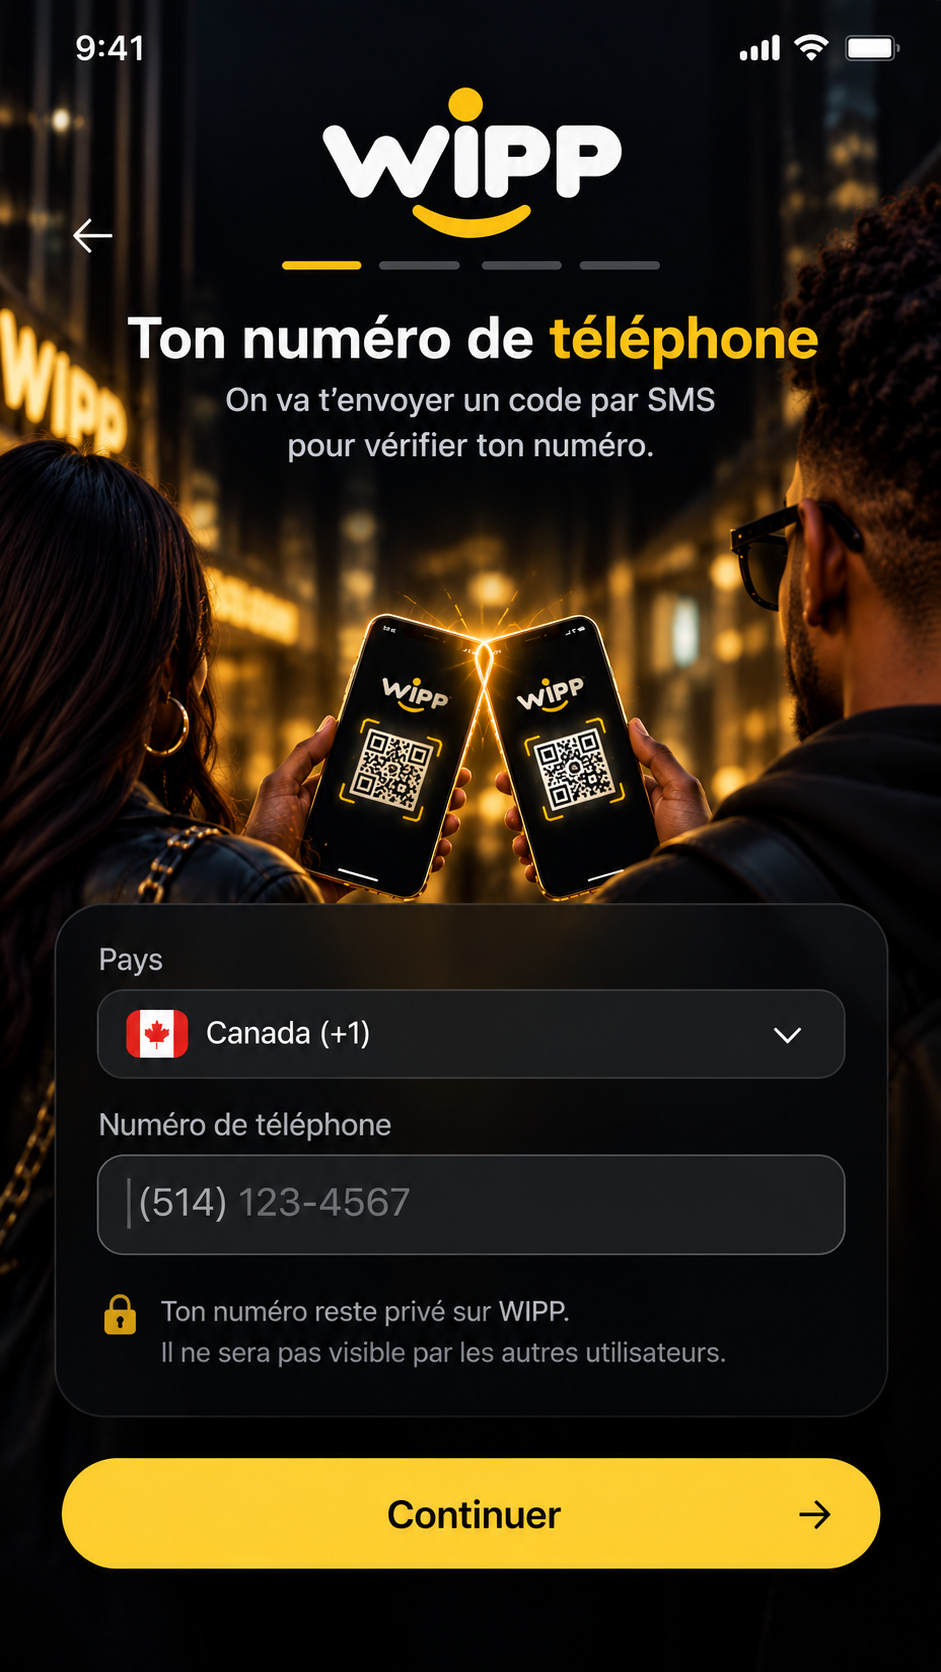
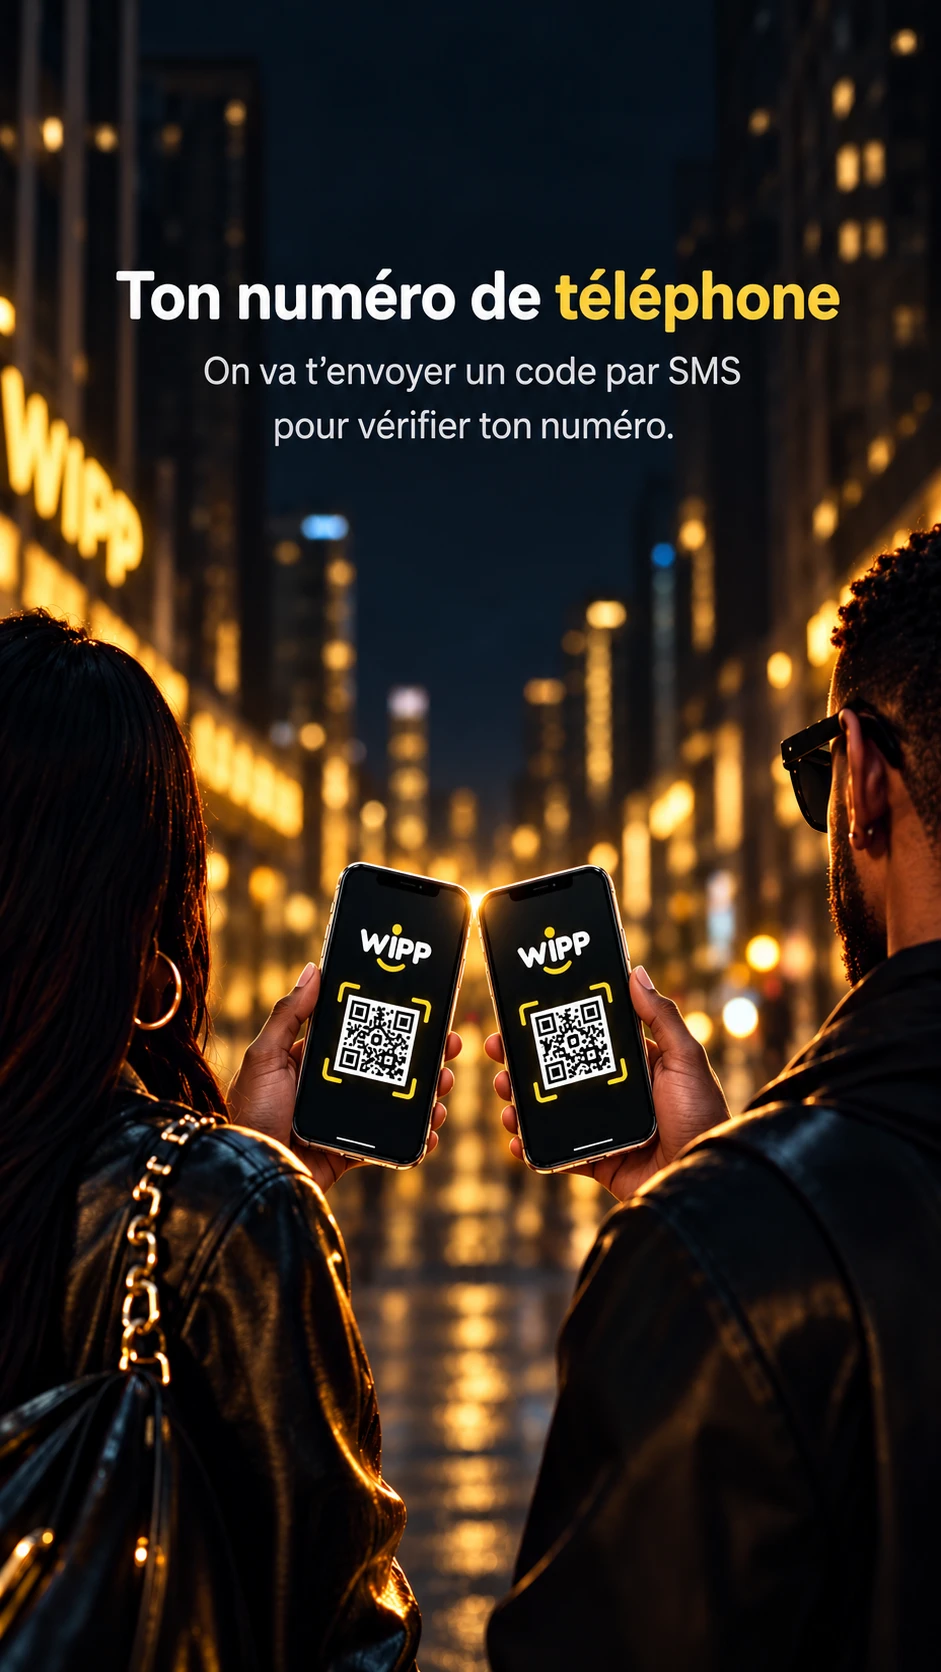
fix(native): écran numéro de téléphone sans doublon (nouveau fond décor seul)

diff --git a/native/src/screens/auth.tsx b/native/src/screens/auth.tsx
@@ -25,6 +25,7 @@ import {
   authSms,
   authWelcome,
   brandOfficial,
+  logoGold,
   wippSrc,
 } from "../lib/assets";
 import { haptic } from "../lib/haptics";
@@ -449,12 +450,19 @@ export function PhoneEntryScreen() {
   return (
     <Artwork source={authPhone}>
       {(reveal) => <>
-      <Abs t={11.5} l={4} h={6} w={12}>
+      {/* The background is decor only (title included): logo and form are drawn here. */}
+      <Abs t={4.5} l={32} h={7} w={36}>
+        <Image source={logoGold} style={{ width: "100%", height: "100%" }} contentFit="contain" />
+      </Abs>
+      <Abs t={68} l={3} h={30} w={94}>
+        <View pointerEvents="none" style={{ flex: 1, borderRadius: 24, backgroundColor: "rgba(5,8,18,0.86)", borderWidth: 1, borderColor: "rgba(255,255,255,0.08)" }} />
+      </Abs>
+      <Abs t={6} l={4} h={6} w={12}>
         <Pressable accessibilityLabel="Retour" onPress={pop} style={{ flex: 1, alignItems: "center", justifyContent: "center" }}>
           <ChevronLeft size={24} color={colors.fg} />
         </Pressable>
       </Abs>
-      <Abs t={63.2} l={5.5} h={11.5} w={89}>
+      <Abs t={69.5} l={7} h={9.5} w={86}>
         <View ref={phoneBlockRef} style={{ flex: 1 }}>
           <Text style={{ color: colors.fg, fontSize: 15, fontFamily: "Inter_500Medium", marginBottom: 7 }}>Numéro de téléphone</Text>
           <View style={{ flex: 1, minHeight: 54, flexDirection: "row", alignItems: "center", paddingHorizontal: 12, gap: 8, borderRadius: 18, borderWidth: 1.5, borderColor: "rgba(255,255,255,0.48)", backgroundColor: "rgba(9,15,28,0.94)" }}>
@@ -488,10 +496,7 @@ export function PhoneEntryScreen() {
           </View>
         </View>
       </Abs>
-      <Abs t={76.8} l={6} h={10} w={88}>
-        <View pointerEvents="none" style={{ flex: 1, borderRadius: 8, backgroundColor: colors.bg }} />
-      </Abs>
-      <Abs t={77.6} l={8} w={84}>
+      <Abs t={80.3} l={8} w={84}>
         <CheckLine
           checked={legal}
           onToggle={setLegal}
